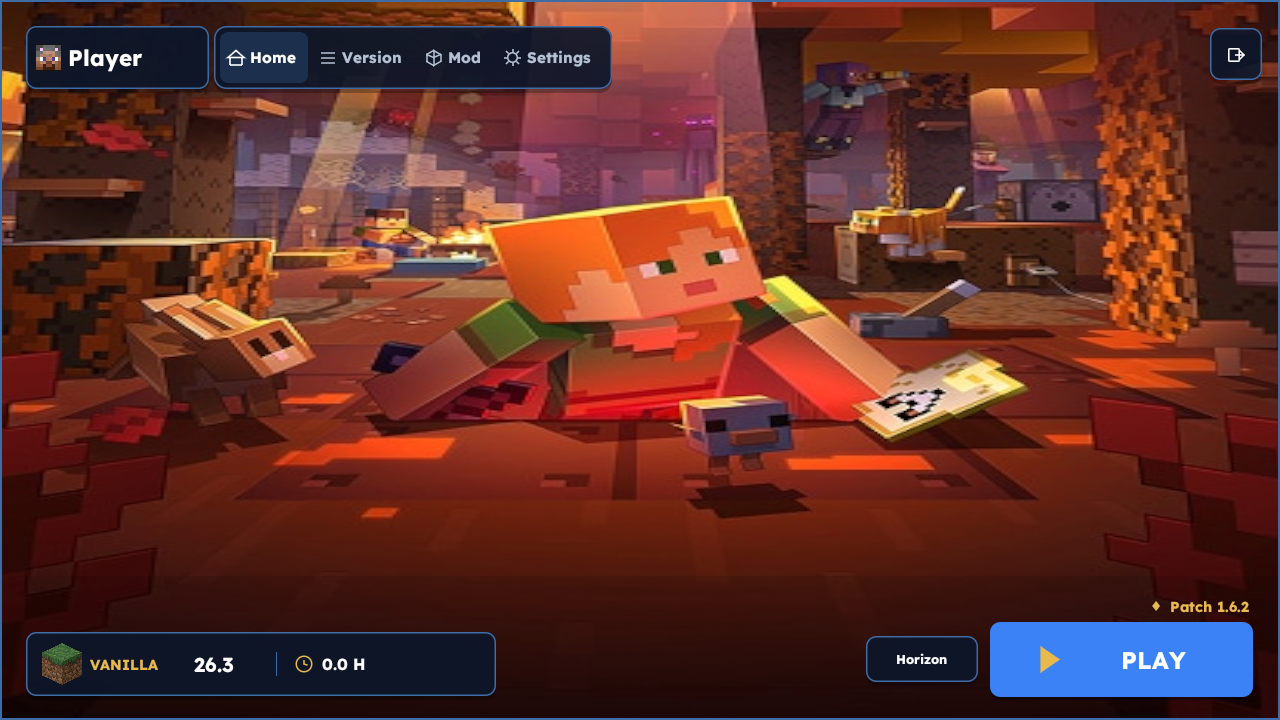
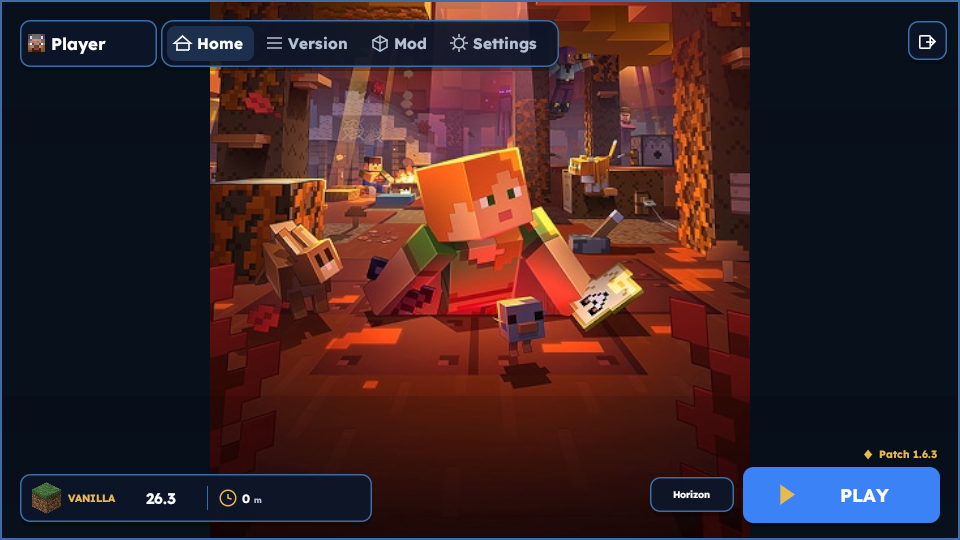
Shrink the window, keep the wallpaper aspect, and track play time.
The release build no longer opens a console. Minutes show as a small m until one hour, then the card switches to 1.0 H.

diff --git a/src/desktop.rs b/src/desktop.rs
@@ -88,6 +88,7 @@ struct Desktop {
     icon_neoforge: Option<egui::TextureHandle>,
     icon_optifine: Option<egui::TextureHandle>,
     loader: String,
+    playtime: HashMap<String, u128>,
     servers: Vec<ServerEntry>,
     server_icons: HashMap<String, egui::TextureHandle>,
     server_name: String,
@@ -122,8 +123,8 @@ struct Desktop {
 
 pub fn run(shot: Option<String>, tab: String) -> Result<(), String> {
     let viewport = egui::ViewportBuilder::default()
-        .with_inner_size([1280.0, 720.0])
-        .with_min_inner_size([1100.0, 640.0])
+        .with_inner_size([960.0, 540.0])
+        .with_min_inner_size([800.0, 450.0])
         .with_decorations(false)
         .with_resizable(true)
         .with_title("Rus")
@@ -169,6 +170,7 @@ impl Desktop {
             icon_neoforge: load_texture(&cc.egui_ctx, "neoforge", include_bytes!("../assets/loader-neoforge.png")),
             icon_optifine: load_texture(&cc.egui_ctx, "optifine", include_bytes!("../assets/loader-optifine.png")),
             loader: if settings.loader.is_empty() { "vanilla".into() } else { settings.loader },
+            playtime: load_playtime(&app),
             servers: app.load_servers(),
             server_icons: HashMap::new(),
             server_name: String::new(),
@@ -262,6 +264,22 @@ impl Desktop {
     }
 
     fn paper_for(&self, id: &str) -> &'static Paper { wallpapers::for_version(id) }
+
+    fn settle_playtime(&mut self) {
+        let finished = crate::play::drain_finished();
+        if finished.is_empty() {
+            return;
+        }
+        for (version, ms) in finished {
+            *self.playtime.entry(version).or_insert(0) += ms;
+        }
+        save_playtime(&self.app, &self.playtime);
+    }
+
+    fn shown_play_ms(&self) -> u128 {
+        let stored = self.playtime.get(&self.selected).copied().unwrap_or(0);
+        stored + crate::play::live_ms_for(&self.selected).unwrap_or(0)
+    }
 
     fn loader_icon(&self) -> Option<&egui::TextureHandle> {
         match self.loader.as_str() {
@@ -522,6 +540,7 @@ impl eframe::App for Desktop {
 
     fn update(&mut self, ctx: &egui::Context, _frame: &mut eframe::Frame) {
         self.pump(ctx);
+        self.settle_playtime();
         self.refresh_avatar(ctx);
         if self.icons_dirty {
             self.reload_server_icons(ctx);
@@ -610,7 +629,9 @@ impl Desktop {
     fn paint_wallpaper(&self, ui: &egui::Ui, full: egui::Rect) {
         let paper = self.paper_for(&self.selected);
         if let Some(tex) = self.papers.get(paper.title) {
-            ui.painter().image(tex.id(), full, egui::Rect::from_min_max(egui::Pos2::ZERO, egui::pos2(1.0, 1.0)), egui::Color32::WHITE);
+            ui.painter().rect_filled(full, 0.0, BG);
+            let fitted = contain_rect(tex.size_vec2(), full);
+            ui.painter().image(tex.id(), fitted, egui::Rect::from_min_max(egui::Pos2::ZERO, egui::pos2(1.0, 1.0)), egui::Color32::WHITE);
         } else {
             ui.painter().rect_filled(full, 0.0, BG);
             ui.painter().text(
@@ -668,7 +689,7 @@ impl Desktop {
             egui::Stroke::new(1.0, BORDER_BTN),
         );
         paint_clock(ui.painter(), egui::pos2(card.left() + us(full, 278.0), card.center().y), GOLD);
-        ui.painter().text(egui::pos2(card.left() + us(full, 296.0), card.center().y), egui::Align2::LEFT_CENTER, "0.0 H", lexend(us(full, 16.0)), TEXT);
+        paint_play_stat(ui, egui::pos2(card.left() + us(full, 296.0), card.center().y), self.shown_play_ms(), us(full, 16.0));
         if card_hit.clicked() {
             let at = card_hit.interact_pointer_pos().unwrap_or(card.center());
             if icon_rect.contains(at) {
@@ -1587,6 +1608,28 @@ fn window_edges(ctx: &egui::Context) {
             if resp.drag_started() { ui.ctx().send_viewport_cmd(ViewportCommand::BeginResize(*dir)); }
         }
     });
+}
+
+fn paint_play_stat(ui: &egui::Ui, origin: egui::Pos2, ms: u128, num_size: f32) {
+    let (number, unit, hours) = crate::state::play_label(ms);
+    let num_font = lexend(num_size);
+    ui.painter().text(origin, egui::Align2::LEFT_CENTER, &number, num_font.clone(), TEXT);
+    let width = ui.painter().layout_no_wrap(number, num_font, TEXT).size().x;
+    let unit_size = if hours { num_size * 1.35 } else { num_size * 0.68 };
+    let unit_at = origin + egui::vec2(width + 4.0, if hours { -1.0 } else { 2.0 });
+    ui.painter().text(unit_at, egui::Align2::LEFT_CENTER, unit, lexend(unit_size), if hours { TEXT } else { MUTED });
+}
+
+fn load_playtime(app: &App) -> HashMap<String, u128> {
+    let Ok(text) = std::fs::read_to_string(app.p("playtime.json")) else { return HashMap::new(); };
+    let Ok(value) = serde_json::from_str::<serde_json::Value>(&text) else { return HashMap::new(); };
+    let Some(obj) = value.as_object() else { return HashMap::new(); };
+    obj.iter().filter_map(|(k, v)| v.as_u64().map(|n| (k.clone(), n as u128))).collect()
+}
+
+fn save_playtime(app: &App, times: &HashMap<String, u128>) {
+    let value: serde_json::Map<String, serde_json::Value> = times.iter().map(|(k, v)| (k.clone(), serde_json::json!(v))).collect();
+    let _ = std::fs::write(app.p("playtime.json"), serde_json::to_string(&value).unwrap_or_default());
 }
 
 fn contain_rect(src: egui::Vec2, dst: egui::Rect) -> egui::Rect {

diff --git a/src/play.rs b/src/play.rs
@@ -100,9 +100,9 @@ pub fn build_command_join(app: &App, id: &str, server: Option<&str>) -> Result<(
         .and_then(|j| j.get("majorVersion"))
         .and_then(|m| m.as_u64())
         .unwrap_or(0) as u32;
-    let javaw = java::resolve(app, component, major).ok_or_else(|| {
+    let javaw = java::gui_exe(&java::resolve(app, component, major).ok_or_else(|| {
         format!("Java {major} was not found. Reinstall the version or set a Java path in Settings")
-    })?;
+    })?);
 
     let uuid = offline_uuid(&settings.username);
     let mut vars: HashMap<String, String> = HashMap::new();
@@ -287,12 +287,22 @@ pub fn build_command_join(app: &App, id: &str, server: Option<&str>) -> Result<(
             cmd.stdout(Stdio::null()).stderr(Stdio::null());
         }
     }
+    hide_console(&mut cmd);
+    cmd.stdin(Stdio::null());
+    Ok((cmd, javaw))
+}
+
+pub fn hide_console(cmd: &mut Command) {
     #[cfg(target_os = "windows")]
     {
         use std::os::windows::process::CommandExt;
-        cmd.creation_flags(0x08000000); // CREATE_NO_WINDOW
+        // CREATE_NO_WINDOW — do not open a console for this process.
+        cmd.creation_flags(0x08000000);
     }
-    Ok((cmd, javaw))
+    #[cfg(not(target_os = "windows"))]
+    {
+        let _ = cmd;
+    }
 }
 
 fn split_server(addr: &str) -> (String, Option<String>) {
@@ -346,6 +356,31 @@ pub fn launch_join(app: &App, id: &str, server: Option<&str>) -> Result<serde_js
     }))
 }
 
+fn note_exit(version: String, started: u128) {
+    let elapsed = crate::state::now_ms().saturating_sub(started);
+    if elapsed > 0 {
+        finished().lock().unwrap().push((version, elapsed));
+    }
+}
+
+fn finished() -> &'static Mutex<Vec<(String, u128)>> {
+    static FINISHED: OnceLock<Mutex<Vec<(String, u128)>>> = OnceLock::new();
+    FINISHED.get_or_init(|| Mutex::new(Vec::new()))
+}
+
+pub fn drain_finished() -> Vec<(String, u128)> {
+    std::mem::take(&mut *finished().lock().unwrap())
+}
+
+pub fn live_ms_for(version: &str) -> Option<u128> {
+    let r = running().lock().unwrap();
+    let p = r.as_ref()?;
+    if p.version != version {
+        return None;
+    }
+    Some(crate::state::now_ms().saturating_sub(p.started))
+}
+
 pub fn status() -> serde_json::Value {
     let mut r = running().lock().unwrap();
     if let Some(p) = r.as_mut() {
@@ -360,7 +395,10 @@ pub fn status() -> serde_json::Value {
                 })
             }
             _ => {
+                let version = p.version.clone();
+                let started = p.started;
                 *r = None;
+                note_exit(version, started);
             }
         }
     }
@@ -372,6 +410,7 @@ pub fn kill() -> Result<(), String> {
     let mut r = running().lock().unwrap();
     if let Some(p) = r.as_mut() {
         let _ = p.child.kill();
+        note_exit(p.version.clone(), p.started);
     }
     *r = None;
     Ok(())

diff --git a/src/state.rs b/src/state.rs
@@ -84,6 +84,16 @@ pub fn next_loader(id: &str) -> &'static str {
     order[(i + 1) % order.len()]
 }
 
+/// Under an hour the unit is a small `m`. At one hour and beyond it is `1.0 H`.
+pub fn play_label(ms: u128) -> (String, &'static str, bool) {
+    if ms >= 3_600_000 {
+        let hours = (ms as f64 / 3_600_000.0 * 10.0).round() / 10.0;
+        (format!("{hours:.1}"), "H", true)
+    } else {
+        ((ms / 60_000).to_string(), "m", false)
+    }
+}
+
 impl Default for Settings {
     fn default() -> Self {
         Self {
@@ -371,5 +381,13 @@ mod tests {
         assert_eq!(recent.len(), 2);
         assert_eq!(recent[0].address, "new.example");
         assert!(recent.iter().all(|s| s.played_at > 0));
+    }
+
+    #[test]
+    fn play_time_uses_small_m_until_one_hour() {
+        assert_eq!(play_label(0), ("0".into(), "m", false));
+        assert_eq!(play_label(59 * 60_000), ("59".into(), "m", false));
+        assert_eq!(play_label(3_600_000), ("1.0".into(), "H", true));
+        assert_eq!(play_label(90 * 60_000), ("1.5".into(), "H", true));
     }
 }

diff --git a/src/java.rs b/src/java.rs
@@ -21,6 +21,17 @@ pub fn java_exe(root: &Path) -> PathBuf {
     }
 }
 
+/// Windowed Java. `java.exe` opens a console; `javaw.exe` does not.
+pub fn gui_exe(java: &Path) -> PathBuf {
+    if cfg!(target_os = "windows") {
+        let javaw = java.with_file_name("javaw.exe");
+        if javaw.is_file() {
+            return javaw;
+        }
+    }
+    java.to_path_buf()
+}
+
 pub fn system_java() -> Option<PathBuf> {
     let exe = if cfg!(target_os = "windows") { "java.exe" } else { "java" };
     if let Some(java_home) = std::env::var_os("JAVA_HOME") {

diff --git a/src/horizon.rs b/src/horizon.rs
@@ -247,6 +247,8 @@ fn run(app: &App) -> Result<(), String> {
             cmd.stdout(Stdio::from(f)).stderr(Stdio::from(err));
         }
     }
+    crate::play::hide_console(&mut cmd);
+    cmd.stdin(Stdio::null());
     let child = cmd.spawn().map_err(|e| format!("Failed to start Horizon: {e}"))?;
     crate::sandbox::attach(&child);
     let pid = child.id();

diff --git a/src/main.rs b/src/main.rs
@@ -1,7 +1,8 @@
 //! Rus — a native Minecraft: Java Edition launcher.
 //!
 //! The window is the program. It does not open a browser and it does not
-//! serve a web page.
+//! serve a web page. Release builds do not open a console.
+#![cfg_attr(not(debug_assertions), windows_subsystem = "windows")]
 
 mod desktop;
 mod dialog;

diff --git a/README.md b/README.md
@@ -121,8 +121,8 @@ Linux sandbox: `apt install bubblewrap`. Without it, the client still gets a pri
 
 | Platform | File |
 | --- | --- |
-| Linux x86-64 | [rus-linux-x86_64](https://github.com/obsifox/rus/releases/download/v1.6.2/rus-linux-x86_64) |
-| Windows x64 | [rus-windows-x64.exe](https://github.com/obsifox/rus/releases/download/v1.6.2/rus-windows-x64.exe) |
+| Linux x86-64 | [rus-linux-x86_64](https://github.com/obsifox/rus/releases/download/v1.6.3/rus-linux-x86_64) |
+| Windows x64 | [rus-windows-x64.exe](https://github.com/obsifox/rus/releases/download/v1.6.3/rus-windows-x64.exe) |
 
 Linux:
 
